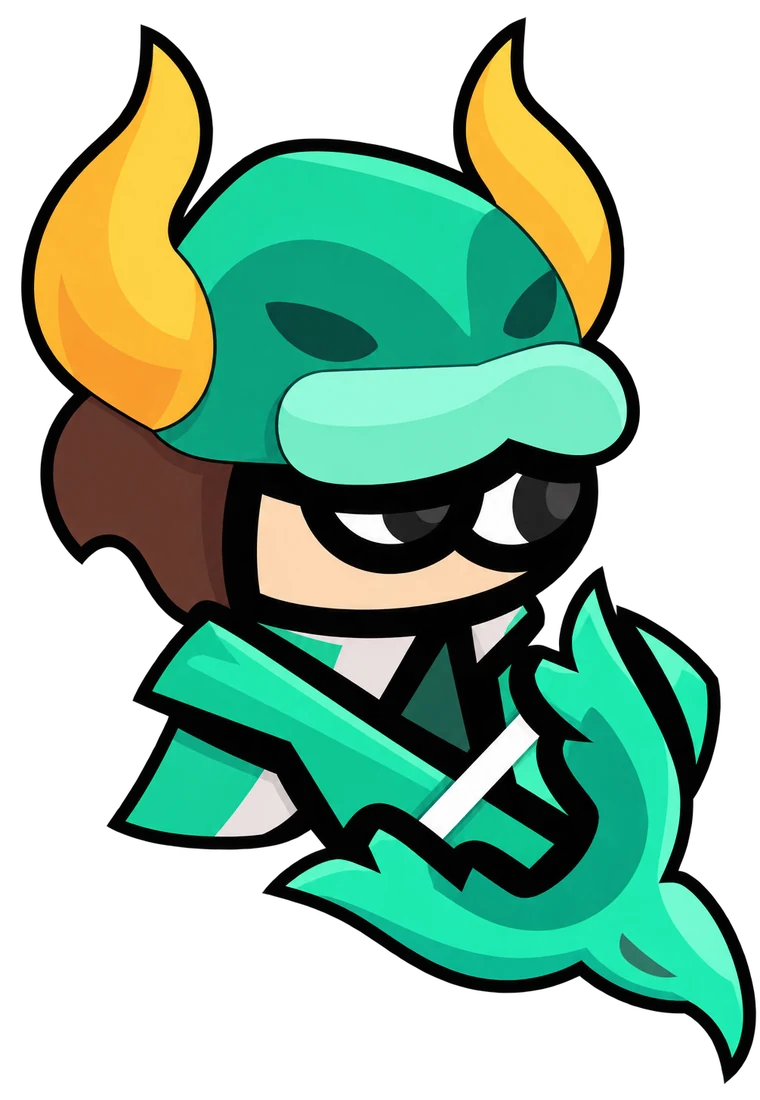
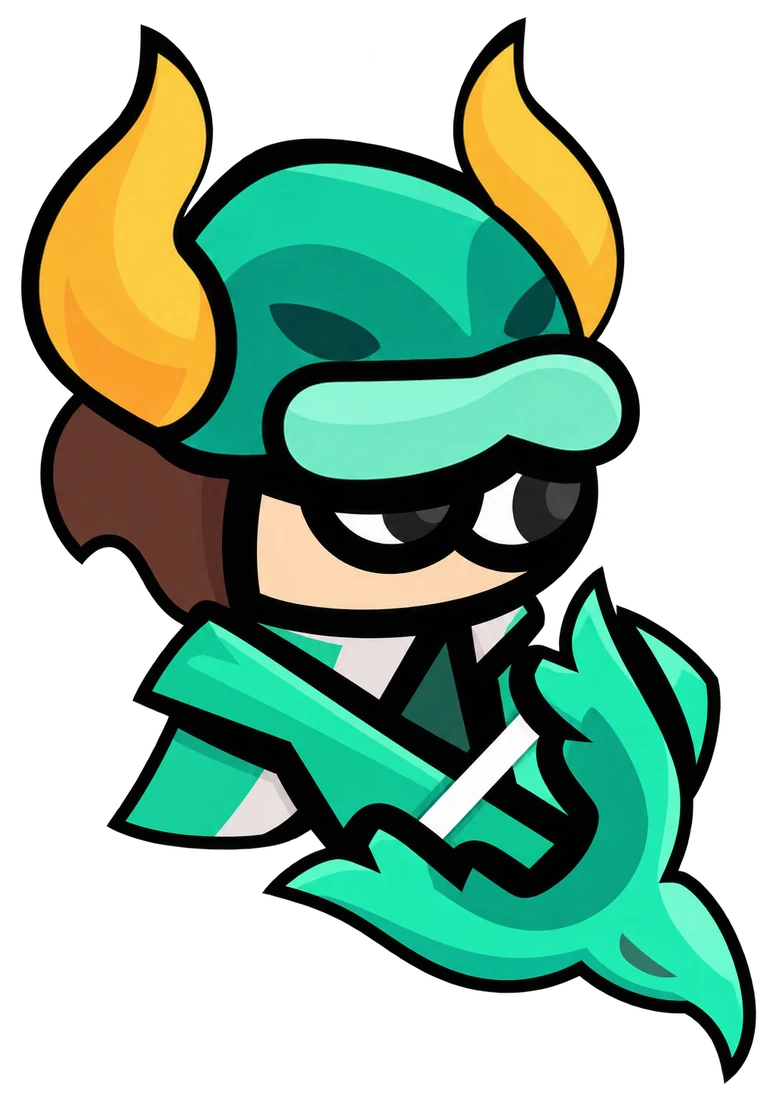
Ajusta contornos dos capacetes nas ilustracoes dos Echos

diff --git a/index.html b/index.html
@@ -36,7 +36,7 @@
       </div>
       <div class="hero-cast" aria-hidden="true">
         <div class="cast-halo"></div>
-        <div class="cast cast-back"><img class="cast-art" src="assets/dragao_esmeralda.webp" alt="" width="600" height="800"></div>
+        <div class="cast cast-back"><img class="cast-art" src="assets/dragao_esmeralda.webp?v=e6eb35e2feb4" alt="" width="600" height="800"></div>
         <div class="cast cast-main"><img class="cast-art" src="assets/arcano_solar.webp" alt="" width="600" height="800"></div>
         <div class="cast cast-pet"><img class="cast-art" src="assets/fenix.webp" alt="" width="300" height="350"></div>
       </div>
@@ -64,7 +64,7 @@ O golpe deles.</h2><p>Quatro Echos. Quatro elementos. Arraste as peças, escolha
     <section class="echo-section section-space" id="echoes"><div class="wrap">
       <div class="section-heading reveal"><div><p class="eyebrow">03 / A SUA ASSINATURA</p><h2>Um time com
 a sua cara.</h2></div><p>Armas, armaduras e aparências que fazem cada Echo ser seu. Encontre a combinação de estilo e estratégia que acompanha a sua jornada.</p></div>
-      <div class="echo-showcase reveal"><div class="echo-aura"></div><div class="echo-ghost" aria-hidden="true">ECHO</div><img id="selected-echo" src="assets/oraculo_carmim.webp" alt="Oráculo Carmim" width="640" height="800" loading="lazy"><div class="echo-info"><p class="eyebrow">CONHEÇA AS APARÊNCIAS</p><h3 id="echo-name" aria-live="polite">Oráculo Carmim</h3><p class="echo-counter"><span id="echo-count">03</span> / 08</p></div><div class="echo-options" role="group" aria-label="CONHEÇA AS APARÊNCIAS"><button type="button" data-skin="arcano_solar" data-name="Arcano Solar" data-number="01" data-color="#ffc943" aria-label="Arcano Solar" aria-pressed="false"><img src="assets/arcano_solar.webp" width="90" height="90" alt="" loading="lazy"></button><button type="button" data-skin="dragao_esmeralda" data-name="Dragão Esmeralda" data-number="02" data-color="#28d5a0" aria-label="Dragão Esmeralda" aria-pressed="false"><img src="assets/dragao_esmeralda.webp" width="90" height="90" alt="" loading="lazy"></button><button type="button" data-skin="oraculo_carmim" data-name="Oráculo Carmim" data-number="03" data-color="#d64676" aria-label="Oráculo Carmim" aria-pressed="true"><img src="assets/oraculo_carmim.webp" width="90" height="90" alt="" loading="lazy"></button><button type="button" data-skin="eclipse_celeste" data-name="Eclipse Celeste" data-number="04" data-color="#64d8f3" aria-label="Eclipse Celeste" aria-pressed="false"><img src="assets/eclipse_celeste.webp" width="90" height="90" alt="" loading="lazy"></button><button type="button" data-skin="fenix_rose" data-name="Fênix Rosé" data-number="05" data-color="#de9cae" aria-label="Fênix Rosé" aria-pressed="false"><img src="assets/fenix_rose.webp" width="90" height="90" alt="" loading="lazy"></button><button type="button" data-skin="trono_de_ouro" data-name="Trono de Ouro" data-number="06" data-color="#ffcd2d" aria-label="Trono de Ouro" aria-pressed="false"><img src="assets/trono_de_ouro.webp" width="90" height="90" alt="" loading="lazy"></button><button type="button" data-skin="ametista" data-name="Ametista" data-number="07" data-color="#be44dc" aria-label="Ametista" aria-pressed="false"><img src="assets/ametista.webp" width="90" height="90" alt="" loading="lazy"></button><button type="button" data-skin="mare_profunda" data-name="Maré Profunda" data-number="08" data-color="#258edb" aria-label="Maré Profunda" aria-pressed="false"><img src="assets/mare_profunda.webp" width="90" height="90" alt="" loading="lazy"></button></div></div><p class="fine-print echo-note">Aparências ilustradas a partir dos personagens do jogo. Disponibilidade varia conforme a progressão e as ofertas.</p>
+      <div class="echo-showcase reveal"><div class="echo-aura"></div><div class="echo-ghost" aria-hidden="true">ECHO</div><img id="selected-echo" src="assets/oraculo_carmim.webp" alt="Oráculo Carmim" width="640" height="800" loading="lazy"><div class="echo-info"><p class="eyebrow">CONHEÇA AS APARÊNCIAS</p><h3 id="echo-name" aria-live="polite">Oráculo Carmim</h3><p class="echo-counter"><span id="echo-count">03</span> / 08</p></div><div class="echo-options" role="group" aria-label="CONHEÇA AS APARÊNCIAS"><button type="button" data-skin="arcano_solar" data-name="Arcano Solar" data-number="01" data-color="#ffc943" aria-label="Arcano Solar" aria-pressed="false"><img src="assets/arcano_solar.webp?v=d573abebeaa1" width="90" height="90" alt="" loading="lazy"></button><button type="button" data-skin="dragao_esmeralda" data-name="Dragão Esmeralda" data-number="02" data-color="#28d5a0" aria-label="Dragão Esmeralda" aria-pressed="false"><img src="assets/dragao_esmeralda.webp?v=e6eb35e2feb4" width="90" height="90" alt="" loading="lazy"></button><button type="button" data-skin="oraculo_carmim" data-name="Oráculo Carmim" data-number="03" data-color="#d64676" aria-label="Oráculo Carmim" aria-pressed="true"><img src="assets/oraculo_carmim.webp?v=a9c1e69438e1" width="90" height="90" alt="" loading="lazy"></button><button type="button" data-skin="eclipse_celeste" data-name="Eclipse Celeste" data-number="04" data-color="#64d8f3" aria-label="Eclipse Celeste" aria-pressed="false"><img src="assets/eclipse_celeste.webp?v=14b6fe761e43" width="90" height="90" alt="" loading="lazy"></button><button type="button" data-skin="fenix_rose" data-name="Fênix Rosé" data-number="05" data-color="#de9cae" aria-label="Fênix Rosé" aria-pressed="false"><img src="assets/fenix_rose.webp?v=bb451b90ee06" width="90" height="90" alt="" loading="lazy"></button><button type="button" data-skin="trono_de_ouro" data-name="Trono de Ouro" data-number="06" data-color="#ffcd2d" aria-label="Trono de Ouro" aria-pressed="false"><img src="assets/trono_de_ouro.webp?v=00f96ab04e7f" width="90" height="90" alt="" loading="lazy"></button><button type="button" data-skin="ametista" data-name="Ametista" data-number="07" data-color="#be44dc" aria-label="Ametista" aria-pressed="false"><img src="assets/ametista.webp?v=6e22765fb7d0" width="90" height="90" alt="" loading="lazy"></button><button type="button" data-skin="mare_profunda" data-name="Maré Profunda" data-number="08" data-color="#258edb" aria-label="Maré Profunda" aria-pressed="false"><img src="assets/mare_profunda.webp?v=c1e8edbfc283" width="90" height="90" alt="" loading="lazy"></button></div></div><p class="fine-print echo-note">Aparências ilustradas a partir dos personagens do jogo. Disponibilidade varia conforme a progressão e as ofertas.</p>
     </div></section>
     <section class="home-section section-space wrap" id="adventure"><div class="home-copy reveal"><p class="eyebrow">04 / MAIS QUE UMA AVENTURA</p><h2>Um mundo para explorar.
 Um lugar para pertencer.</h2><p>Construa seu acampamento, decore cada canto e receba visitas. Encontre outros jogadores, faça parte de uma guilda e encare novos desafios.</p><div class="home-features"><div><h3>Encontre sua guilda</h3><p>Compartilhe o Refúgio e participe da Guerra das Fendas.</p></div><div><h3>Leve companhia</h3><p>Pequenos companheiros para grandes descobertas.</p></div></div></div><figure class="camp-scene reveal"><img src="assets/camp-pt_BR.webp?v=bef302b7ef14" width="1200" height="1200" alt="SEU ACAMPAMENTO, SUA HISTÓRIA" loading="lazy"><figcaption>SEU ACAMPAMENTO, SUA HISTÓRIA</figcaption><img class="camp-pet" src="assets/dragao.webp" width="240" height="240" alt="" loading="lazy"></figure></section>

diff --git a/index-es.html b/index-es.html
@@ -36,7 +36,7 @@
       </div>
       <div class="hero-cast" aria-hidden="true">
         <div class="cast-halo"></div>
-        <div class="cast cast-back"><img class="cast-art" src="assets/dragao_esmeralda.webp" alt="" width="600" height="800"></div>
+        <div class="cast cast-back"><img class="cast-art" src="assets/dragao_esmeralda.webp?v=e6eb35e2feb4" alt="" width="600" height="800"></div>
         <div class="cast cast-main"><img class="cast-art" src="assets/arcano_solar.webp" alt="" width="600" height="800"></div>
         <div class="cast cast-pet"><img class="cast-art" src="assets/fenix.webp" alt="" width="300" height="350"></div>
       </div>
@@ -64,7 +64,7 @@ Su próximo golpe.</h2><p>Cuatro Echos. Cuatro elementos. Arrastra las piezas, e
     <section class="echo-section section-space" id="echoes"><div class="wrap">
       <div class="section-heading reveal"><div><p class="eyebrow">03 / TU PROPIO ESTILO</p><h2>Un equipo
 a tu manera.</h2></div><p>Armas, armaduras y apariencias para hacer tuyo a cada Echo. Encuentra la combinación de estilo y estrategia que acompañe tu aventura.</p></div>
-      <div class="echo-showcase reveal"><div class="echo-aura"></div><div class="echo-ghost" aria-hidden="true">ECHO</div><img id="selected-echo" src="assets/oraculo_carmim.webp" alt="Oráculo Carmesí" width="640" height="800" loading="lazy"><div class="echo-info"><p class="eyebrow">DESCUBRE LAS APARIENCIAS</p><h3 id="echo-name" aria-live="polite">Oráculo Carmesí</h3><p class="echo-counter"><span id="echo-count">03</span> / 08</p></div><div class="echo-options" role="group" aria-label="DESCUBRE LAS APARIENCIAS"><button type="button" data-skin="arcano_solar" data-name="Arcano Solar" data-number="01" data-color="#ffc943" aria-label="Arcano Solar" aria-pressed="false"><img src="assets/arcano_solar.webp" width="90" height="90" alt="" loading="lazy"></button><button type="button" data-skin="dragao_esmeralda" data-name="Dragón Esmeralda" data-number="02" data-color="#28d5a0" aria-label="Dragón Esmeralda" aria-pressed="false"><img src="assets/dragao_esmeralda.webp" width="90" height="90" alt="" loading="lazy"></button><button type="button" data-skin="oraculo_carmim" data-name="Oráculo Carmesí" data-number="03" data-color="#d64676" aria-label="Oráculo Carmesí" aria-pressed="true"><img src="assets/oraculo_carmim.webp" width="90" height="90" alt="" loading="lazy"></button><button type="button" data-skin="eclipse_celeste" data-name="Eclipse Celeste" data-number="04" data-color="#64d8f3" aria-label="Eclipse Celeste" aria-pressed="false"><img src="assets/eclipse_celeste.webp" width="90" height="90" alt="" loading="lazy"></button><button type="button" data-skin="fenix_rose" data-name="Fénix Rosé" data-number="05" data-color="#de9cae" aria-label="Fénix Rosé" aria-pressed="false"><img src="assets/fenix_rose.webp" width="90" height="90" alt="" loading="lazy"></button><button type="button" data-skin="trono_de_ouro" data-name="Trono de Oro" data-number="06" data-color="#ffcd2d" aria-label="Trono de Oro" aria-pressed="false"><img src="assets/trono_de_ouro.webp" width="90" height="90" alt="" loading="lazy"></button><button type="button" data-skin="ametista" data-name="Amatista" data-number="07" data-color="#be44dc" aria-label="Amatista" aria-pressed="false"><img src="assets/ametista.webp" width="90" height="90" alt="" loading="lazy"></button><button type="button" data-skin="mare_profunda" data-name="Marea Profunda" data-number="08" data-color="#258edb" aria-label="Marea Profunda" aria-pressed="false"><img src="assets/mare_profunda.webp" width="90" height="90" alt="" loading="lazy"></button></div></div><p class="fine-print echo-note">Ilustraciones basadas en personajes del juego. La disponibilidad depende del progreso y las ofertas.</p>
+      <div class="echo-showcase reveal"><div class="echo-aura"></div><div class="echo-ghost" aria-hidden="true">ECHO</div><img id="selected-echo" src="assets/oraculo_carmim.webp" alt="Oráculo Carmesí" width="640" height="800" loading="lazy"><div class="echo-info"><p class="eyebrow">DESCUBRE LAS APARIENCIAS</p><h3 id="echo-name" aria-live="polite">Oráculo Carmesí</h3><p class="echo-counter"><span id="echo-count">03</span> / 08</p></div><div class="echo-options" role="group" aria-label="DESCUBRE LAS APARIENCIAS"><button type="button" data-skin="arcano_solar" data-name="Arcano Solar" data-number="01" data-color="#ffc943" aria-label="Arcano Solar" aria-pressed="false"><img src="assets/arcano_solar.webp?v=d573abebeaa1" width="90" height="90" alt="" loading="lazy"></button><button type="button" data-skin="dragao_esmeralda" data-name="Dragón Esmeralda" data-number="02" data-color="#28d5a0" aria-label="Dragón Esmeralda" aria-pressed="false"><img src="assets/dragao_esmeralda.webp?v=e6eb35e2feb4" width="90" height="90" alt="" loading="lazy"></button><button type="button" data-skin="oraculo_carmim" data-name="Oráculo Carmesí" data-number="03" data-color="#d64676" aria-label="Oráculo Carmesí" aria-pressed="true"><img src="assets/oraculo_carmim.webp?v=a9c1e69438e1" width="90" height="90" alt="" loading="lazy"></button><button type="button" data-skin="eclipse_celeste" data-name="Eclipse Celeste" data-number="04" data-color="#64d8f3" aria-label="Eclipse Celeste" aria-pressed="false"><img src="assets/eclipse_celeste.webp?v=14b6fe761e43" width="90" height="90" alt="" loading="lazy"></button><button type="button" data-skin="fenix_rose" data-name="Fénix Rosé" data-number="05" data-color="#de9cae" aria-label="Fénix Rosé" aria-pressed="false"><img src="assets/fenix_rose.webp?v=bb451b90ee06" width="90" height="90" alt="" loading="lazy"></button><button type="button" data-skin="trono_de_ouro" data-name="Trono de Oro" data-number="06" data-color="#ffcd2d" aria-label="Trono de Oro" aria-pressed="false"><img src="assets/trono_de_ouro.webp?v=00f96ab04e7f" width="90" height="90" alt="" loading="lazy"></button><button type="button" data-skin="ametista" data-name="Amatista" data-number="07" data-color="#be44dc" aria-label="Amatista" aria-pressed="false"><img src="assets/ametista.webp?v=6e22765fb7d0" width="90" height="90" alt="" loading="lazy"></button><button type="button" data-skin="mare_profunda" data-name="Marea Profunda" data-number="08" data-color="#258edb" aria-label="Marea Profunda" aria-pressed="false"><img src="assets/mare_profunda.webp?v=c1e8edbfc283" width="90" height="90" alt="" loading="lazy"></button></div></div><p class="fine-print echo-note">Ilustraciones basadas en personajes del juego. La disponibilidad depende del progreso y las ofertas.</p>
     </div></section>
     <section class="home-section section-space wrap" id="adventure"><div class="home-copy reveal"><p class="eyebrow">04 / MÁS QUE UNA AVENTURA</p><h2>Un mundo para explorar.
 Un lugar para pertenecer.</h2><p>Construye tu campamento, decora cada rincón y recibe visitas. Conoce a otros jugadores, únete a un gremio y enfrenta nuevos desafíos.</p><div class="home-features"><div><h3>Encuentra tu gremio</h3><p>Comparte el Refugio y participa en la Guerra de las Grietas.</p></div><div><h3>Lleva compañía</h3><p>Pequeños compañeros para grandes descubrimientos.</p></div></div></div><figure class="camp-scene reveal"><img src="assets/camp-es_419.webp?v=bef302b7ef14" width="1200" height="1200" alt="TU CAMPAMENTO, TU HISTORIA" loading="lazy"><figcaption>TU CAMPAMENTO, TU HISTORIA</figcaption><img class="camp-pet" src="assets/dragao.webp" width="240" height="240" alt="" loading="lazy"></figure></section>

diff --git a/index-en.html b/index-en.html
@@ -36,7 +36,7 @@
       </div>
       <div class="hero-cast" aria-hidden="true">
         <div class="cast-halo"></div>
-        <div class="cast cast-back"><img class="cast-art" src="assets/dragao_esmeralda.webp" alt="" width="600" height="800"></div>
+        <div class="cast cast-back"><img class="cast-art" src="assets/dragao_esmeralda.webp?v=e6eb35e2feb4" alt="" width="600" height="800"></div>
         <div class="cast cast-main"><img class="cast-art" src="assets/arcano_solar.webp" alt="" width="600" height="800"></div>
         <div class="cast cast-pet"><img class="cast-art" src="assets/fenix.webp" alt="" width="300" height="350"></div>
       </div>
@@ -64,7 +64,7 @@ Their next strike.</h2><p>Four Echos. Four elements. Drag tiles, choose your mat
     <section class="echo-section section-space" id="echoes"><div class="wrap">
       <div class="section-heading reveal"><div><p class="eyebrow">03 / MAKE YOUR MARK</p><h2>Your team.
 Your signature.</h2></div><p>Weapons, armor and looks that make every Echo your own. Find the mix of style and strategy that fits your journey.</p></div>
-      <div class="echo-showcase reveal"><div class="echo-aura"></div><div class="echo-ghost" aria-hidden="true">ECHO</div><img id="selected-echo" src="assets/oraculo_carmim.webp" alt="Crimson Oracle" width="640" height="800" loading="lazy"><div class="echo-info"><p class="eyebrow">EXPLORE THE LOOKS</p><h3 id="echo-name" aria-live="polite">Crimson Oracle</h3><p class="echo-counter"><span id="echo-count">03</span> / 08</p></div><div class="echo-options" role="group" aria-label="EXPLORE THE LOOKS"><button type="button" data-skin="arcano_solar" data-name="Solar Arcanist" data-number="01" data-color="#ffc943" aria-label="Solar Arcanist" aria-pressed="false"><img src="assets/arcano_solar.webp" width="90" height="90" alt="" loading="lazy"></button><button type="button" data-skin="dragao_esmeralda" data-name="Emerald Dragon" data-number="02" data-color="#28d5a0" aria-label="Emerald Dragon" aria-pressed="false"><img src="assets/dragao_esmeralda.webp" width="90" height="90" alt="" loading="lazy"></button><button type="button" data-skin="oraculo_carmim" data-name="Crimson Oracle" data-number="03" data-color="#d64676" aria-label="Crimson Oracle" aria-pressed="true"><img src="assets/oraculo_carmim.webp" width="90" height="90" alt="" loading="lazy"></button><button type="button" data-skin="eclipse_celeste" data-name="Celestial Eclipse" data-number="04" data-color="#64d8f3" aria-label="Celestial Eclipse" aria-pressed="false"><img src="assets/eclipse_celeste.webp" width="90" height="90" alt="" loading="lazy"></button><button type="button" data-skin="fenix_rose" data-name="Rose Phoenix" data-number="05" data-color="#de9cae" aria-label="Rose Phoenix" aria-pressed="false"><img src="assets/fenix_rose.webp" width="90" height="90" alt="" loading="lazy"></button><button type="button" data-skin="trono_de_ouro" data-name="Golden Throne" data-number="06" data-color="#ffcd2d" aria-label="Golden Throne" aria-pressed="false"><img src="assets/trono_de_ouro.webp" width="90" height="90" alt="" loading="lazy"></button><button type="button" data-skin="ametista" data-name="Amethyst" data-number="07" data-color="#be44dc" aria-label="Amethyst" aria-pressed="false"><img src="assets/ametista.webp" width="90" height="90" alt="" loading="lazy"></button><button type="button" data-skin="mare_profunda" data-name="Deep Tide" data-number="08" data-color="#258edb" aria-label="Deep Tide" aria-pressed="false"><img src="assets/mare_profunda.webp" width="90" height="90" alt="" loading="lazy"></button></div></div><p class="fine-print echo-note">Illustrations based on in-game characters. Availability depends on progression and offers.</p>
+      <div class="echo-showcase reveal"><div class="echo-aura"></div><div class="echo-ghost" aria-hidden="true">ECHO</div><img id="selected-echo" src="assets/oraculo_carmim.webp" alt="Crimson Oracle" width="640" height="800" loading="lazy"><div class="echo-info"><p class="eyebrow">EXPLORE THE LOOKS</p><h3 id="echo-name" aria-live="polite">Crimson Oracle</h3><p class="echo-counter"><span id="echo-count">03</span> / 08</p></div><div class="echo-options" role="group" aria-label="EXPLORE THE LOOKS"><button type="button" data-skin="arcano_solar" data-name="Solar Arcanist" data-number="01" data-color="#ffc943" aria-label="Solar Arcanist" aria-pressed="false"><img src="assets/arcano_solar.webp?v=d573abebeaa1" width="90" height="90" alt="" loading="lazy"></button><button type="button" data-skin="dragao_esmeralda" data-name="Emerald Dragon" data-number="02" data-color="#28d5a0" aria-label="Emerald Dragon" aria-pressed="false"><img src="assets/dragao_esmeralda.webp?v=e6eb35e2feb4" width="90" height="90" alt="" loading="lazy"></button><button type="button" data-skin="oraculo_carmim" data-name="Crimson Oracle" data-number="03" data-color="#d64676" aria-label="Crimson Oracle" aria-pressed="true"><img src="assets/oraculo_carmim.webp?v=a9c1e69438e1" width="90" height="90" alt="" loading="lazy"></button><button type="button" data-skin="eclipse_celeste" data-name="Celestial Eclipse" data-number="04" data-color="#64d8f3" aria-label="Celestial Eclipse" aria-pressed="false"><img src="assets/eclipse_celeste.webp?v=14b6fe761e43" width="90" height="90" alt="" loading="lazy"></button><button type="button" data-skin="fenix_rose" data-name="Rose Phoenix" data-number="05" data-color="#de9cae" aria-label="Rose Phoenix" aria-pressed="false"><img src="assets/fenix_rose.webp?v=bb451b90ee06" width="90" height="90" alt="" loading="lazy"></button><button type="button" data-skin="trono_de_ouro" data-name="Golden Throne" data-number="06" data-color="#ffcd2d" aria-label="Golden Throne" aria-pressed="false"><img src="assets/trono_de_ouro.webp?v=00f96ab04e7f" width="90" height="90" alt="" loading="lazy"></button><button type="button" data-skin="ametista" data-name="Amethyst" data-number="07" data-color="#be44dc" aria-label="Amethyst" aria-pressed="false"><img src="assets/ametista.webp?v=6e22765fb7d0" width="90" height="90" alt="" loading="lazy"></button><button type="button" data-skin="mare_profunda" data-name="Deep Tide" data-number="08" data-color="#258edb" aria-label="Deep Tide" aria-pressed="false"><img src="assets/mare_profunda.webp?v=c1e8edbfc283" width="90" height="90" alt="" loading="lazy"></button></div></div><p class="fine-print echo-note">Illustrations based on in-game characters. Availability depends on progression and offers.</p>
     </div></section>
     <section class="home-section section-space wrap" id="adventure"><div class="home-copy reveal"><p class="eyebrow">04 / MORE THAN AN ADVENTURE</p><h2>A world to explore.
 A place to belong.</h2><p>Build your camp, decorate every corner and welcome visitors. Meet other players, join a guild and take on new challenges.</p><div class="home-features"><div><h3>Find your guild</h3><p>Share the Refuge and take part in Rift War.</p></div><div><h3>Bring a companion</h3><p>Little companions for great discoveries.</p></div></div></div><figure class="camp-scene reveal"><img src="assets/camp-en_US.webp?v=bef302b7ef14" width="1200" height="1200" alt="YOUR CAMP, YOUR STORY" loading="lazy"><figcaption>YOUR CAMP, YOUR STORY</figcaption><img class="camp-pet" src="assets/dragao.webp" width="240" height="240" alt="" loading="lazy"></figure></section>
